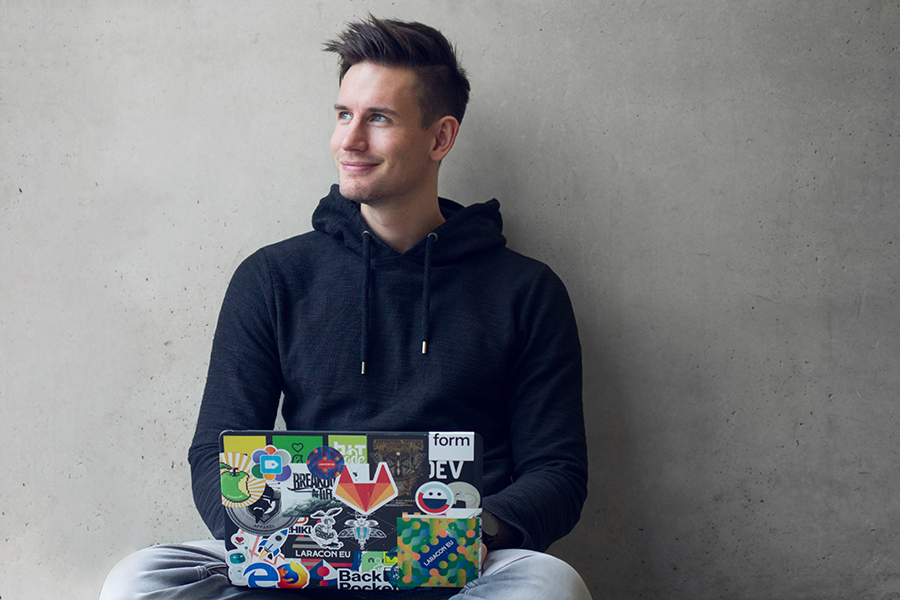
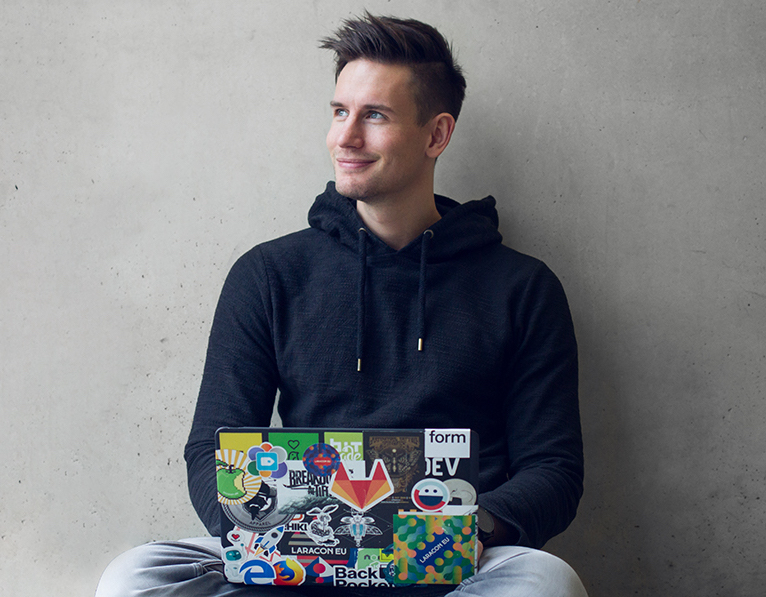
feat: mobile version of about me

diff --git a/pages/index.tsx b/pages/index.tsx
@@ -3,6 +3,7 @@ import Image from 'next/image'
 import { Container } from '../components/Container'
 import { PageHeading } from '../components/PageHeading'
 import { useTranslation } from '../hooks/useTranslation'
+import AboutMeImageMobile from '../img/about-me-1-mobile.jpg'
 import AboutMeImage from '../img/about-me-1.jpg'
 import AboutMeBackground from '../svg/about-me-background.svg'
 
@@ -11,22 +12,26 @@ const Index: NextPage = () => {
 
   return (
     <>
-      <div className='flex pt-8 relative'>
-        <AboutMeBackground className='hidden sm:block absolute w-72 top-0 left-0 h-auto text-teal-100' />
+      <div className='flex sm:pt-8 relative'>
+        <AboutMeBackground className='  absolute w-32 sm:w-72  -top-7 sm:top-0 left-0 h-auto text-teal-100' />
         <div className='flex-1 sm:px-9 relative flex flex-col justify-center'>
           <PageHeading>
             <h1>
               {__('niceToMeetYou')}
             </h1>
           </PageHeading>
-          <p className='text-center mb-12 text-2xl text-neutral-500 font-special'>
+          <div className="max-w-screen-xs mx-auto lg:hidden mb-8">
+            <Image priority={true} src={AboutMeImageMobile} width={766} height={597} objectFit='cover'
+                   alt={__('aboutMeImageAlt')} />
+          </div>
+          <p className='text-center mb-8 sm:mb-12 text-2xl text-neutral-500 font-special'>
             {___('aboutMeOpener')}
           </p>
           <p className='text-lg text-neutral-400'>
             {___('aboutMeFirstText')}
           </p>
         </div>
-        <div className='w-[40%] pt-[60%] relative hidden sm:block'>
+        <div className='w-[40%] pt-[60%] relative hidden lg:block'>
           <div className=' w-full h-full absolute inset-0'>
             <Image priority={true} src={AboutMeImage} width={378} height={566} objectFit='cover'
                    alt={__('aboutMeImageAlt')} />

diff --git a/styles/rich-text.css b/styles/rich-text.css
@@ -1,5 +1,5 @@
 .rich-text {
-  @apply sm:text-lg text-neutral-400 leading-[1.6];
+  @apply text-lg text-neutral-400 leading-[1.6];
 }
 
 .rich-text > div > * + * {
@@ -33,16 +33,26 @@
 
 .rich-text a:after {
   transition: 0.3s width ease-in-out;
-  background: var(--teal-300);
+  background: var(--neutral-400);
   display: block;
   content: ' ';
   position: absolute;
-  bottom: 0;
+  bottom: 1px;
   left: 50%;
-  height: 3px;
+  height: 1px;
   width: calc(100% + 5px);
   transform: translateX(-50%);
 }
+@media (min-width: 600px) {
+.rich-text a:after {
+  background: var(--teal-300);
+  height: 3px;
+  bottom: 0;
+
+}
+
+}
+
 
 .rich-text a:hover {
   color: var(--teal-300);

diff --git a/components/PageHeading.tsx b/components/PageHeading.tsx
@@ -12,7 +12,7 @@ export const PageHeading: React.FC<PageHeadingProps> = ({
                                                         }) => {
 
   return (
-    <div className={clsx('text-4xl text-center text-teal-400 mb-12 font-medium  font-special', className)}>
+    <div className={clsx('text-3xl sm:text-4xl text-center text-teal-400 mb-8 sm:mb-12 font-medium  font-special', className)}>
       {children}
     </div>
   )
